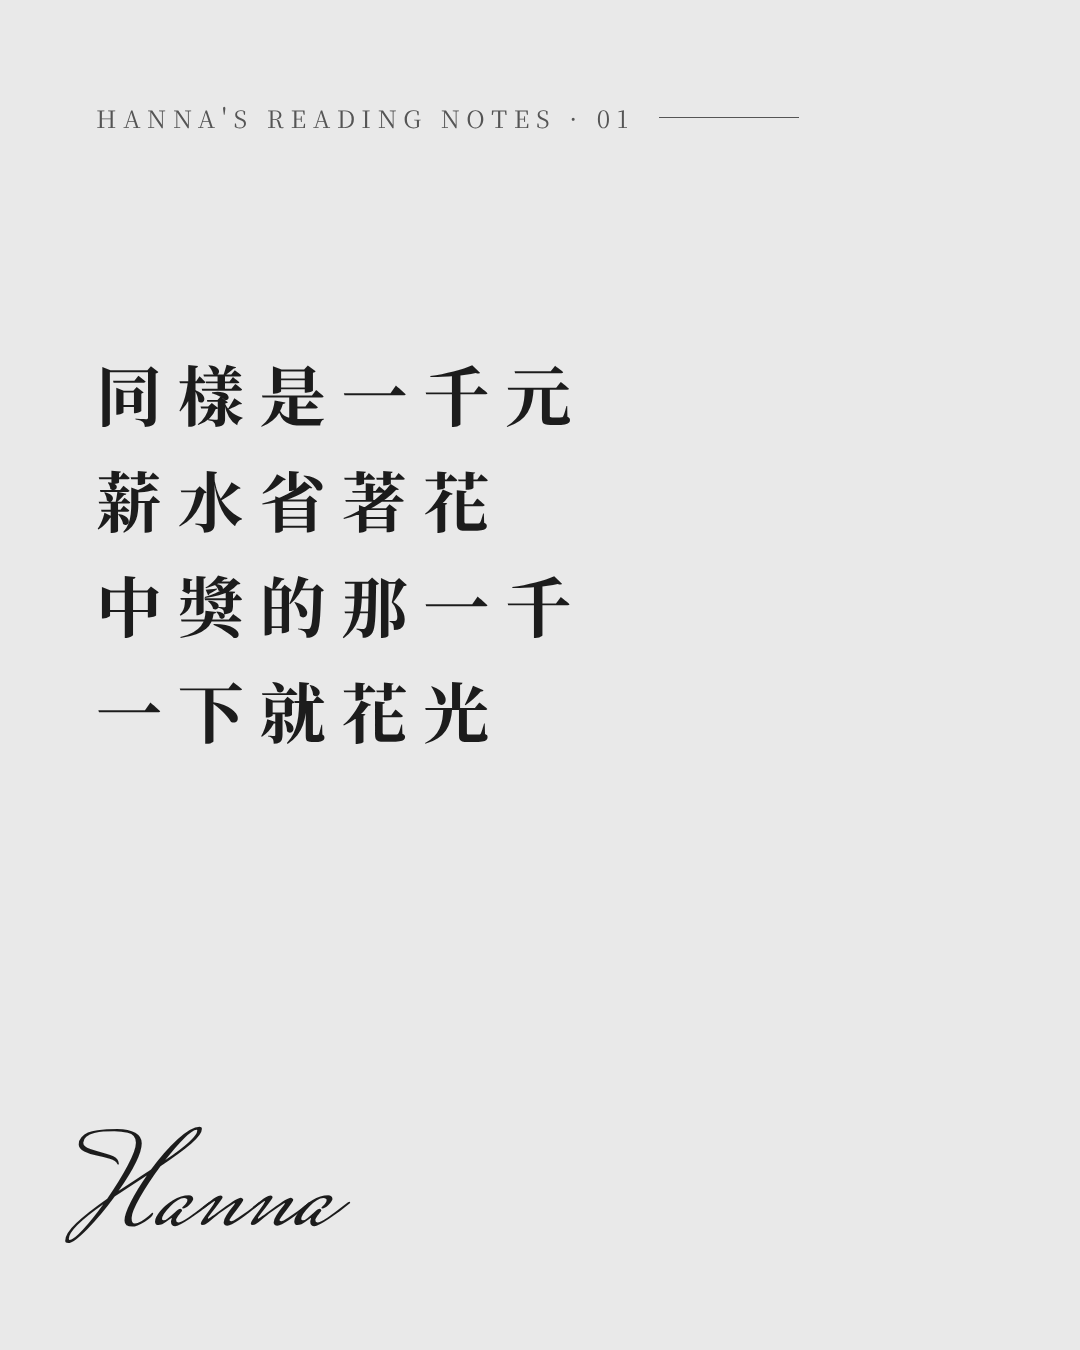
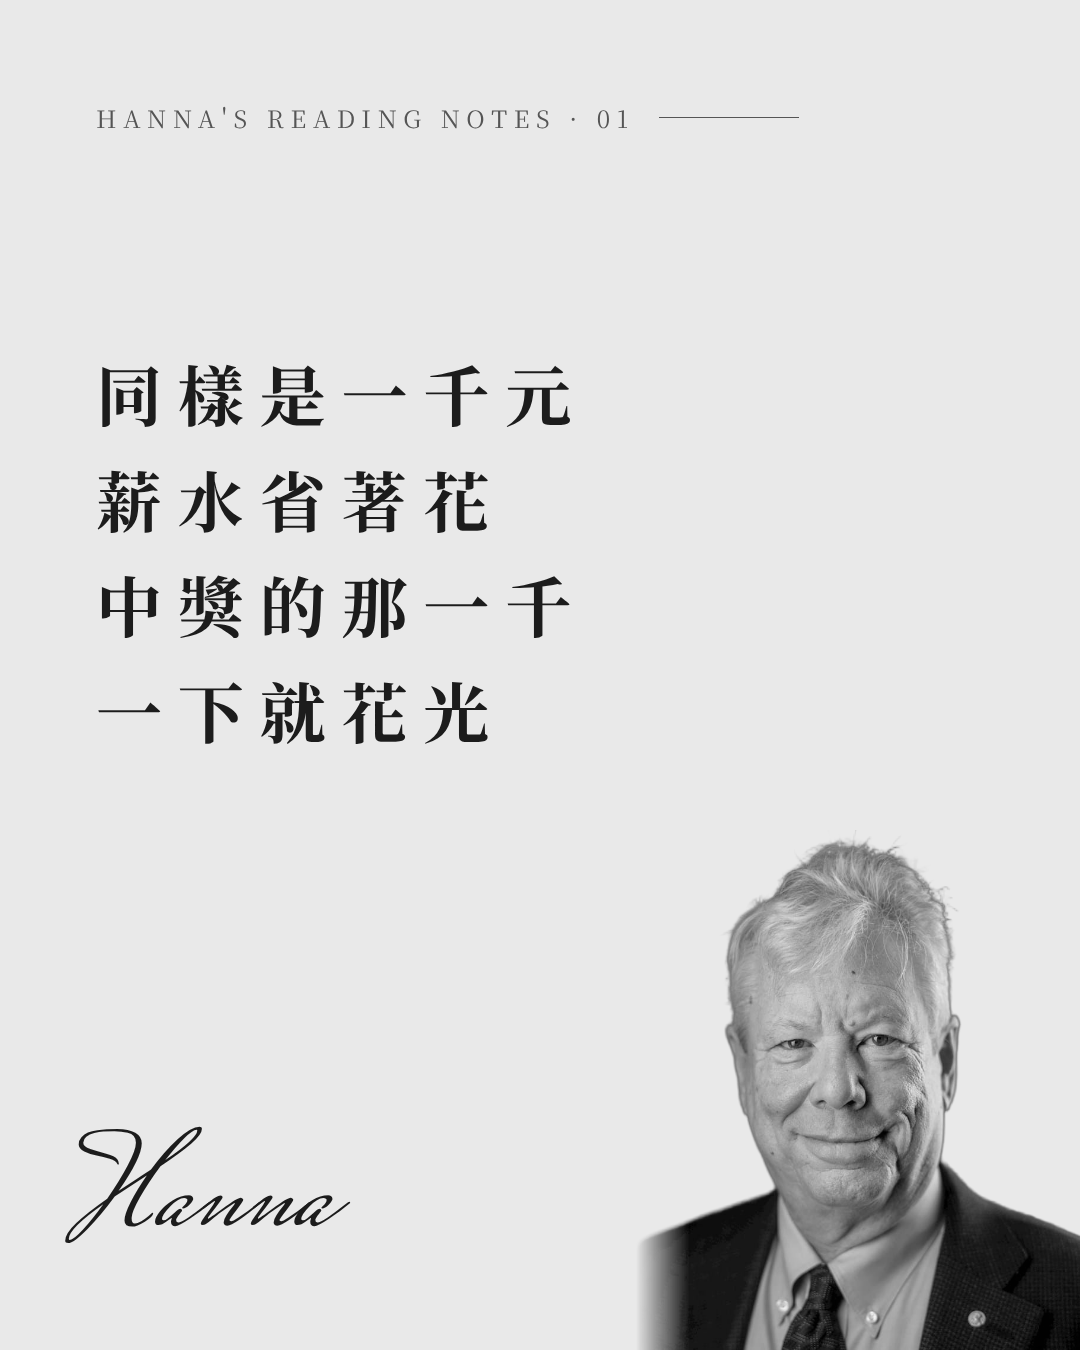
心理帳戶輪播：封面加入去背人物照，版型規格改用人像去背模型
Claude-Session: https://claude.ai/code/session_01AFjNkU8XspDCm6xvkskaQj

Changed region(s): [[0.5806, 0.6222, 1.0, 1.0]]

diff --git a/IP經營/輪播_心理帳戶/slides.html b/IP經營/輪播_心理帳戶/slides.html
@@ -20,8 +20,9 @@
   }
   .series::after { content: ""; width: 140px; height: 1px; background: var(--soft); }
   .person {
-    position: absolute; right: 0; bottom: 0; width: 430px; height: 520px;
+    position: absolute; right: 0; bottom: 0; width: 444px; height: 520px;
     background: url(person.png) center top / cover no-repeat;
+    -webkit-mask-image: linear-gradient(to right, transparent 0%, #000 12%);
   }
   .who { position: absolute; left: 96px; bottom: 330px; }
   .who::before { content: ""; display: block; width: 72px; height: 1px; background: var(--ink); margin-bottom: 28px; }
